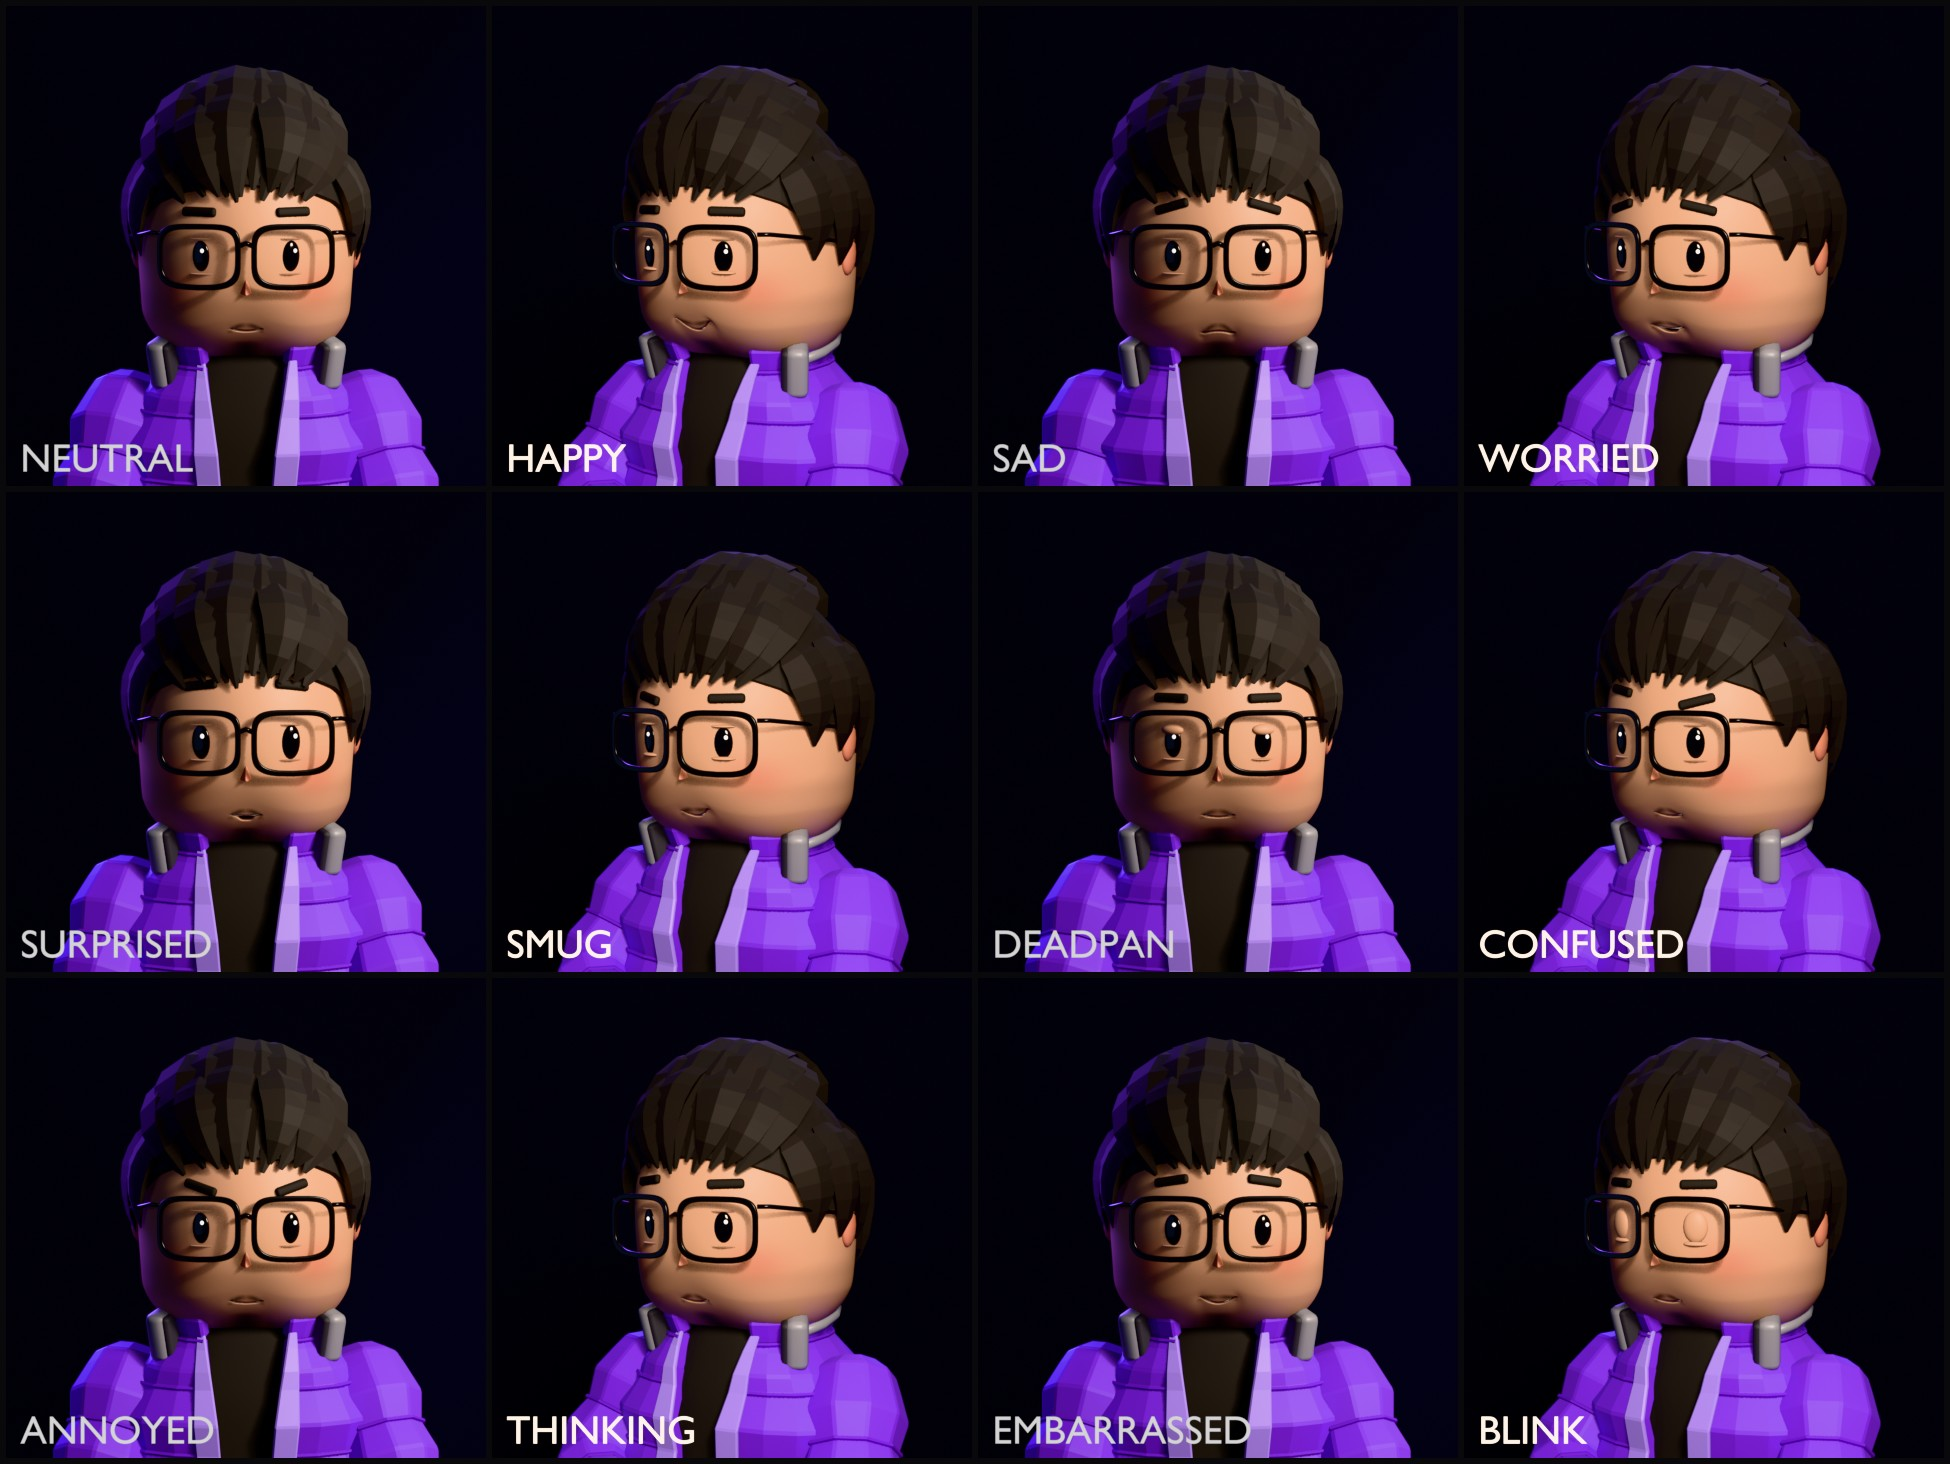
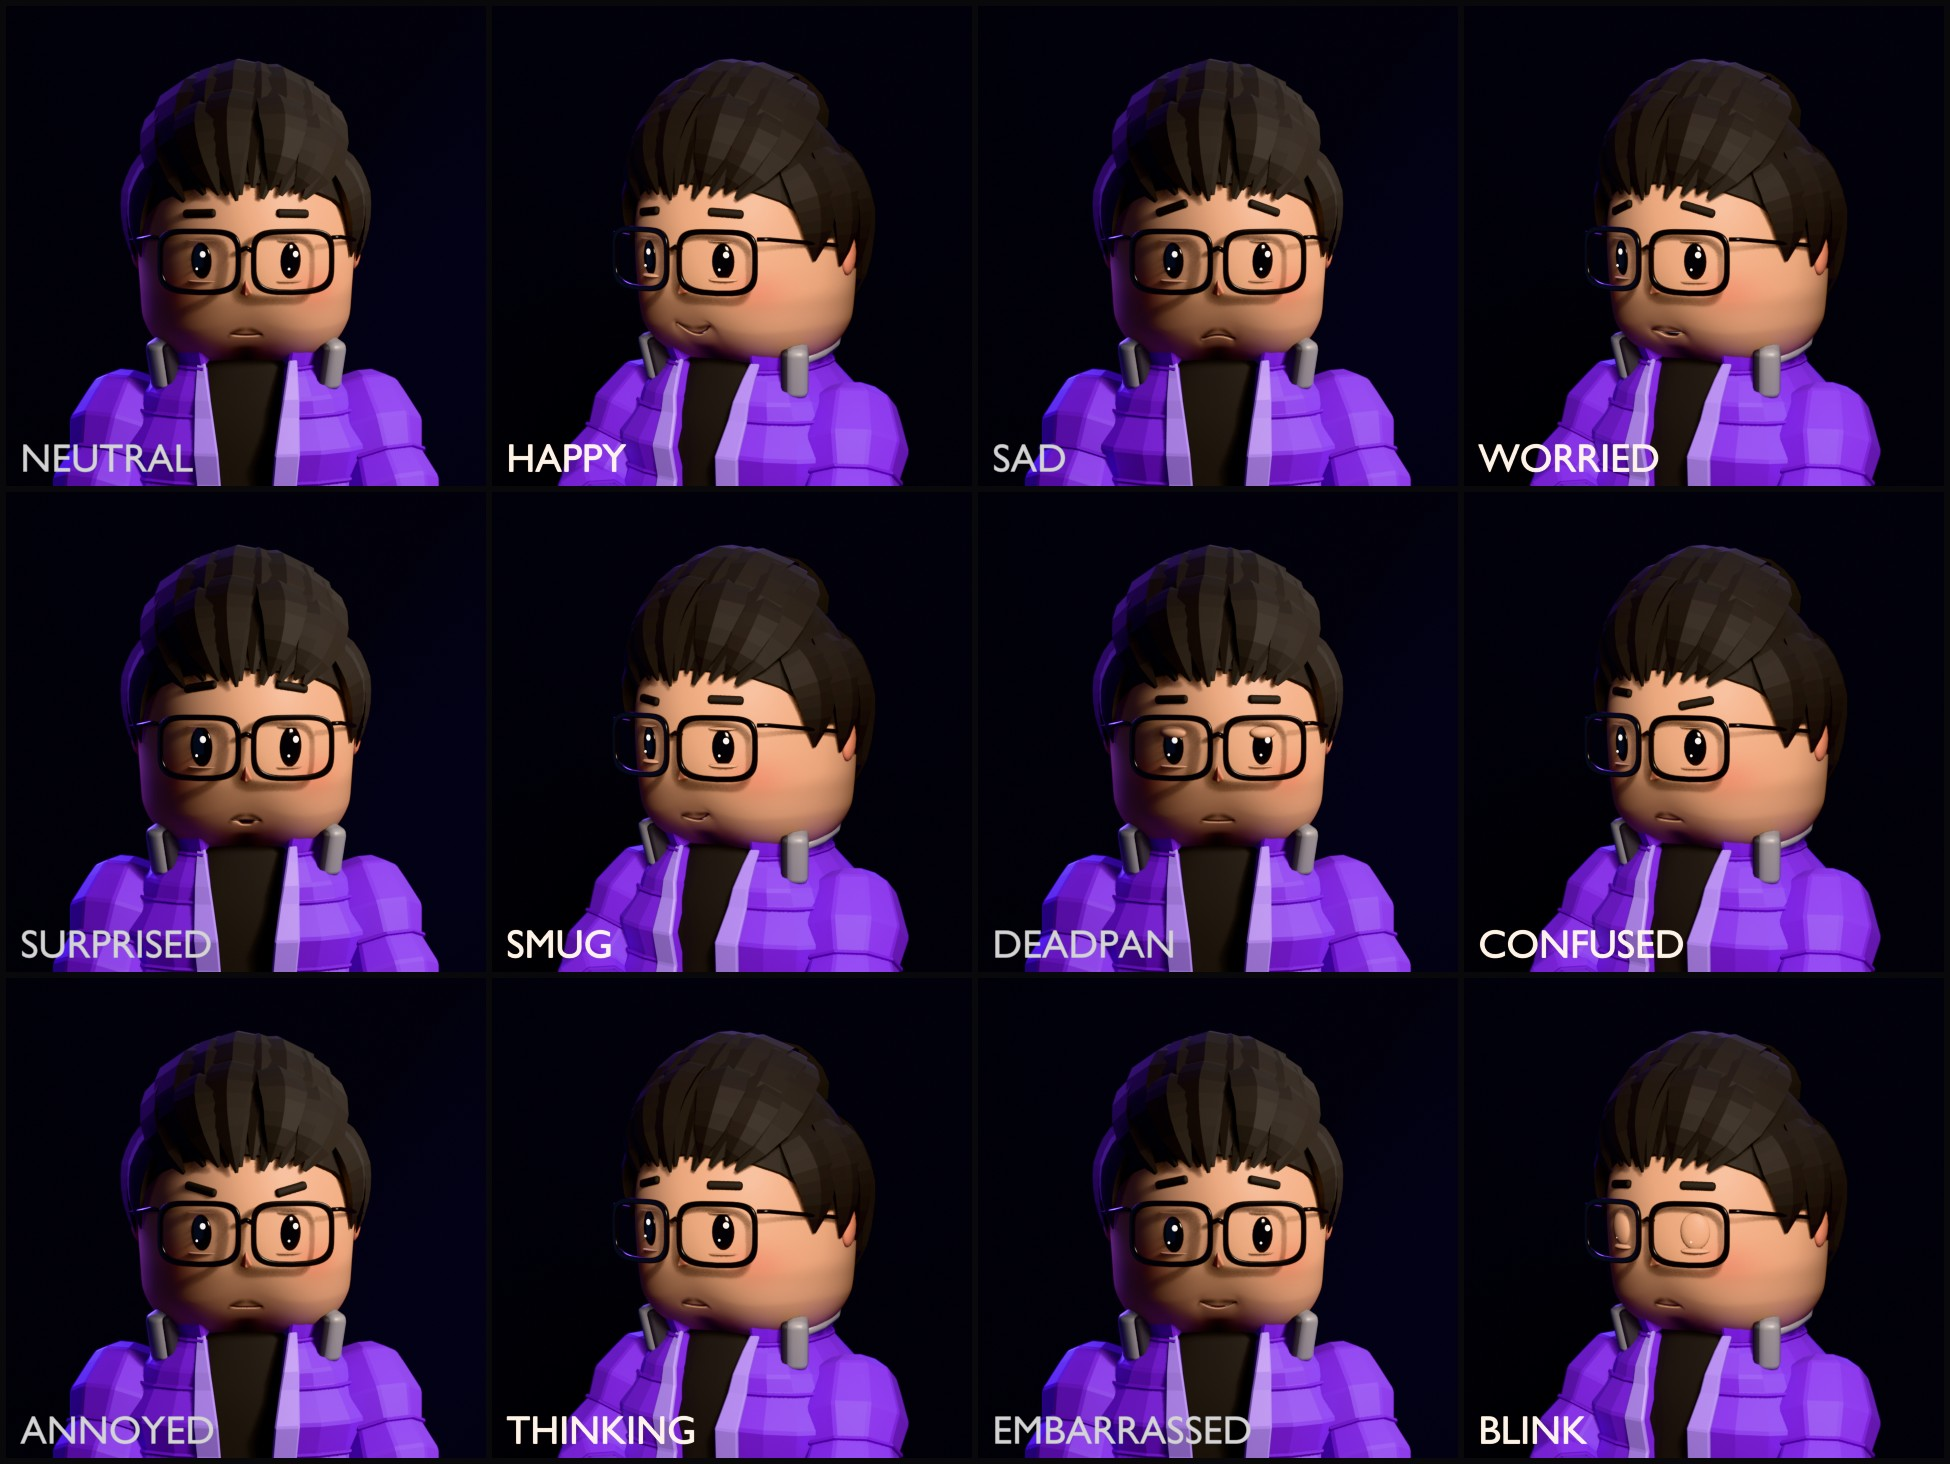
feat(shots-av): innocent-yet-serious face pass and two soft hair designs
Bigger glossy eyes with two catchlights, earnest brows (inner ends a touch high), a
near-neutral resting mouth and a slightly taller face, so the hero reads relatable
and shows emotion clearly. New hair presets soft_fringe and curtain build smooth,
rounded locks that hang onto the forehead; p1/hair_options.jpg compares them with
fringe for the owner to pick. The line-up camera now fits the taller head.

diff --git a/blender/shotsav/hero.py b/blender/shotsav/hero.py
@@ -36,7 +36,7 @@ HERO = {
     "outfit": {"default": "puffer", "options": list(OUTFITS)},
     "outfit_color": {"default": BRAND["purple"],
                      "swatches": [BRAND[k] for k in ("purple", "purple_mid", "purple_soft", "lilac", "ink")]},
-    "hair": {"default": "fringe", "options": ["fringe", "swept", "curly_top", "buzz"]},  # fringe: the owner's hair
+    "hair": {"default": "fringe", "options": ["fringe", "soft_fringe", "curtain", "swept", "curly_top", "buzz"]},
     "hair_color": {"default": "#15110F"},
     "glasses": {"default": "bold", "options": ["bold", "round", "rect", "none"]},  # bold: his black acetate frames
     "headphones": {"default": "neck", "options": ["on", "neck", "none"]},
@@ -51,12 +51,13 @@ DEFAULTS = {k: v["default"] for k, v in HERO.items()}
 
 # --- proportions (metres, seated; the desk top is at 0.74) ---------------------------------------------------
 HC_Z = 1.20  # head centre; the eyes sit 0.02 below it, at 1.18
-RX, RY, RZT, RZB = 0.152, 0.165, 0.182, 0.172  # head about 0.31 wide, 0.36 tall: an oval, taller than wide
+RX, RY, RZT, RZB = 0.152, 0.165, 0.190, 0.180  # head about 0.31 wide, 0.37 tall: an oval, taller than wide
 JAW, TAPER, CHIN = 0.0, 0.16, 0.80  # straight cheeks into defined jaw corners and a flat chin: oval-squarish (the owner's)
 SQUARE = 3.4  # superellipse power of the lower face's outline (2 = round)
-SMILE_REST = 0.2  # his resting face is a soft closed smile
-EYE_X, EYE_Z, EYE_R = 0.0575, -0.02, (0.012, 0.0052, 0.020)  # black ovals 0.024 x 0.040, 0.115 apart
-BROW_Z = 0.036  # just above the frame top (0.022), as in his photo, so the brows still act
+SMILE_REST = 0.10  # calm and serious at rest; the smile is saved for when he means it
+EYE_X, EYE_Z, EYE_R = 0.0570, -0.026, (0.0145, 0.0058, 0.0235)  # big glossy ovals 0.029 x 0.047: innocent,
+# readable at phone size; set a little low so the face keeps an open forehead
+BROW_Z = 0.034  # just above the frame top, as in his photo, so the brows still act
 NECK_Z = 1.035
 BODY_AT = (0.0, 0.03, 0.62)
 SHOULDER = (0.165, 0.0, 0.955)  # shoulders 0.46 wide over the sleeves
@@ -125,6 +126,45 @@ _BACK_CLOSE = [(0, 0.66, 0.004), (0, 0.86, 0.008), (0, 0.985, 0.007), (180, 0.93
 HAIR = {
     # The owner's hair: thick, black and textured, a heavy choppy fringe falling to the brows, volume on top, full
     # sides over the tops of the ears. Clumps run from the crown forward; tips land just above the brow line.
+    # A soft fringe swept gently to his left: big rounded locks, smooth-shaded, tips resting above the brows.
+    "soft_fringe": {"cap": 0.006, "band": 0.036, "thick": 0.40, "smooth": True, "ease": 0.55,
+                    "hairline": [(0, 26), (30, 23), (52, 15), (68, 4), (79, -3), (88, 10), (100, 10), (112, -14),
+                                 (180, -27)], "clumps": [
+        (-34, -16, 0.30, -0.955, (0.010, 0.016, 0.008), 0.060),
+        (-14, 8, 0.32, -0.968, (0.010, 0.017, 0.007), 0.064),
+        (4, 28, 0.30, -0.962, (0.010, 0.017, 0.007), 0.062),
+        (20, 50, 0.24, -0.93, (0.010, 0.016, 0.009), 0.058),
+        (-50, -46, 0.20, -0.86, (0.010, 0.014, 0.009), 0.054),
+        (-22, 10, 0.72, 0.00, (0.010, 0.016, 0.012), 0.066),  # top
+        (24, 2, 0.72, 0.06, (0.010, 0.015, 0.012), 0.066),
+        (-56, -96, -0.45, -0.36, (0.006, 0.012, 0.004), 0.050),  # sides: soft and close
+        (-58, -100, -0.02, 0.04, (0.006, 0.012, 0.004), 0.052),
+        (56, 96, -0.45, -0.36, (0.006, 0.012, 0.004), 0.050),
+        (58, 100, -0.02, 0.04, (0.006, 0.012, 0.004), 0.052),
+        (-40, -126, 0.62, 0.70, (0.006, 0.014, 0.004), 0.052),  # back
+        (40, 126, 0.62, 0.70, (0.006, 0.014, 0.004), 0.052),
+        _BACK_CLOSE,
+    ]},
+    # Curtains: a soft middle part, two rounded curtains framing an open forehead.
+    "curtain": {"cap": 0.006, "band": 0.036, "thick": 0.40, "smooth": True, "ease": 0.55,
+                "hairline": [(0, 30), (30, 24), (52, 15), (68, 4), (79, -3), (88, 10), (100, 10), (112, -14),
+                             (180, -27)], "clumps": [
+        (4, 26, 0.32, -0.962, (0.010, 0.017, 0.007), 0.052),
+        (6, 50, 0.26, -0.945, (0.010, 0.017, 0.008), 0.056),
+        (8, 74, 0.16, -0.86, (0.010, 0.015, 0.009), 0.056),
+        (-4, -26, 0.32, -0.962, (0.010, 0.017, 0.007), 0.052),
+        (-6, -50, 0.26, -0.945, (0.010, 0.017, 0.008), 0.056),
+        (-8, -74, 0.16, -0.86, (0.010, 0.015, 0.009), 0.056),
+        (-12, -4, 0.76, -0.20, (0.010, 0.015, 0.011), 0.054),  # top, either side of the part
+        (12, 4, 0.76, -0.20, (0.010, 0.015, 0.011), 0.054),
+        (-56, -96, -0.45, -0.36, (0.006, 0.012, 0.004), 0.050),  # sides: soft and close
+        (-58, -100, -0.02, 0.04, (0.006, 0.012, 0.004), 0.052),
+        (56, 96, -0.45, -0.36, (0.006, 0.012, 0.004), 0.050),
+        (58, 100, -0.02, 0.04, (0.006, 0.012, 0.004), 0.052),
+        (-40, -126, 0.62, 0.70, (0.006, 0.014, 0.004), 0.052),  # back
+        (40, 126, 0.62, 0.70, (0.006, 0.014, 0.004), 0.052),
+        _BACK_CLOSE,
+    ]},
     "fringe": {"cap": 0.006, "band": 0.036, "thick": 0.34, "hairline": [(0, 22), (30, 20), (52, 14), (68, 4), (79, -3), (88, 10),
                                                          (100, 10), (112, -14), (180, -27)], "clumps": [
         (-6, -48, 0.22, -0.90, (0.010, 0.020, 0.010), 0.050),  # fringe: pieces of uneven width, tips turned apart
@@ -489,7 +529,8 @@ def build(**dials):
         piv = empty(f"Eye{tag}", ep, coll, hgeo)
         piv.rotation_euler = erot
         eye = ball(f"AV_Eye{tag}", EYE_R, coll, M["eye"], parent=piv, segs=24)
-        ball(f"AV_EyeGlint{tag}", (0.24, 0.42, 0.15), coll, M["glint"], (0.30, -0.86, 0.36), parent=eye, segs=12)
+        ball(f"AV_EyeGlint{tag}", (0.27, 0.42, 0.17), coll, M["glint"], (0.30, -0.86, 0.38), parent=eye, segs=12)
+        ball(f"AV_EyeGlint2{tag}", (0.11, 0.42, 0.07), coll, M["glint"], (-0.30, -0.88, -0.42), parent=eye, segs=10)
         ev = face({"w": f"eyeWide{sname}", "o": f"eyeLookOut{sname}", "i": f"eyeLookIn{sname}",
                    "u": f"eyeLookUp{sname}", "d": f"eyeLookDown{sname}"})
         drive(eye, "location", f"{sx}*0.006*(o-i)", ev, 0)
@@ -519,11 +560,11 @@ def build(**dials):
         bp, brot = on_face(sx * (EYE_X + 0.002), BROW_Z, 0.0005)
         bpiv = empty(f"Brow{tag}", bp, coll, hgeo)
         bpiv.rotation_euler = brot
-        brow = rbox(f"AV_Brow{tag}", (0.048, 0.009, 0.0125), coll, M["brow"], 0.004, parent=bpiv)
+        brow = rbox(f"AV_Brow{tag}", (0.046, 0.009, 0.0115), coll, M["brow"], 0.0045, parent=bpiv)
         bv = face({"u": "browInnerUp", "d": f"browDown{sname}", "o": f"browOuterUp{sname}"})
         drive(brow, "location", f"{-sx}*0.004*d", bv, 0)
         drive(brow, "location", "0.010*u+0.013*o-0.008*d", bv, 2)
-        drive(brow, "rotation_euler", f"{sx}*(-0.02+0.42*u-0.46*d-0.16*o)", bv, 1)  # straight at rest
+        drive(brow, "rotation_euler", f"{sx}*(0.035+0.42*u-0.46*d-0.16*o)", bv, 1)  # inner ends a touch high: earnest
         # ears
         ear = ball(f"AV_Ear{tag}", (0.011, 0.022, 0.030), coll, M["blush"], (sx * (RX - 0.002), 0.012, -0.022),
                    parent=hgeo, segs=16)
@@ -553,22 +594,28 @@ def build(**dials):
         for r in range(rows - 1):
             cap_f.append((i * rows + r, j * rows + r, j * rows + r + 1, i * rows + r + 1))
         cap_f.append((i * rows + rows - 1, j * rows + rows - 1, len(cap_v) - 1))
-    cap = mesh("AV_HairCap", cap_v, cap_f, coll, M["hair"], smooth=False, parent=hgeo)
+    soft = bool(preset.get("smooth"))  # soft presets: smooth, rounded locks instead of faceted clumps
+    cap = mesh("AV_HairCap", cap_v, cap_f, coll, M["hair"], smooth=soft, parent=hgeo)
     sol = cap.modifiers.new("Solid", "SOLIDIFY")
     sol.thickness, sol.offset = preset["cap"] + 0.004, -1.0
 
-    def clump(name, path, width, k=5):
+    def clump(name, path, width, k=8 if soft else 5):
         pts = [hpt(d, lift) for d, lift in path]
         rings = []
         for i, (d, _) in enumerate(path):
             s = i / (len(path) - 1)
-            w = width * float(np.interp(s, [0, 0.15, 0.45, 0.8, 1], [0.55, 0.9, 1.0, 0.62, 0.07]))
+            prof = [0.6, 0.95, 1.0, 0.92, 0.38] if soft else [0.55, 0.9, 1.0, 0.62, 0.07]  # soft locks: rounded tips
+            w = width * float(np.interp(s, [0, 0.15, 0.45, 0.8, 1], prof))
             th = preset.get("thick", 0.44) * w  # flatter clumps keep a short cut close to the head
             _, sd, up = geo.frame(pts, i, d)
             c = pts[i] + up * th * 0.3
             rings.append([c + sd * (w * math.cos(2 * math.pi * j / k + math.pi / 2))
                           + up * (th * math.sin(2 * math.pi * j / k + math.pi / 2)) for j in range(k)])
-        return loft(name, rings, coll, M["hair"], smooth=False, parent=hgeo)
+        o = loft(name, rings, coll, M["hair"], smooth=soft, parent=hgeo)
+        if soft:
+            sub = o.modifiers.new("Subd", "SUBSURF")
+            sub.levels = sub.render_levels = 1
+        return o
 
     for ci, spec in enumerate(preset.get("clumps", [])):
         if isinstance(spec, list):
@@ -576,8 +623,9 @@ def build(**dials):
         else:
             th0, th1, f0, f1, (l0, lm, l1), width = spec
             wob = (0.012 if D["hair"] == "fringe" else 0.004) * math.sin(ci * 12.9898)  # irregular, same every build
-            path = [(hdir(th0 + (th1 - th0) * s, f0 + (f1 - f0) * s + wob * math.sin(math.pi * s)),
-                     l0 + (l1 - l0) * s + lm * math.sin(math.pi * s) ** 0.8) for s in (i / 7 for i in range(8))]
+            ease = preset.get("ease", 1.0)  # < 1: the lock crosses the crown fast, then hangs down the forehead
+            path = [(hdir(th0 + (th1 - th0) * s, f0 + (f1 - f0) * s ** ease + wob * math.sin(math.pi * s)),
+                     l0 + (l1 - l0) * s + lm * math.sin(math.pi * s) ** 0.8) for s in (i / 9 for i in range(10))]
         clump(f"AV_Hair{ci:02d}", path, spec[5] if not isinstance(spec, list) else 0.036)
     for ci, (th, f) in enumerate(preset.get("curls", [])):
         r = 0.050 + 0.008 * math.sin(ci * 7.3)

diff --git a/tests/test_shots_av.py b/tests/test_shots_av.py
@@ -190,7 +190,7 @@ def test_hero_table_matches_the_schema_and_the_brand():
     assert tuple(hero["glasses"]["options"]) == schema.AV_GLASSES and hero["glasses"]["default"] == "bold"
     assert tuple(hero["beard"]["options"]) == schema.AV_BEARDS and hero["beard"]["default"] == "light"
     assert set(hero["headphones"]["options"]) == set(schema.AV_HEADPHONES) and hero["headphones"]["default"] == "neck"
-    assert tuple(hero["hair"]["options"]) == ("fringe", "swept", "curly_top", "buzz") and hero["hair"]["default"] == "fringe"
+    assert tuple(hero["hair"]["options"]) == schema.AV_HAIRS and hero["hair"]["default"] == "fringe"
     assert set(t["SKINS"]) == set(schema.AV_SKINS) and hero["skin"]["default"] == schema.AV_SKINS[0]
     assert tuple(hero["hair"]["options"]) == tuple(schema.AV_HAIRS)
     assert hero["stubble"]["default"] == 0.3 and hero["outfit"]["default"] == "puffer"

diff --git a/reelforge/schema.py b/reelforge/schema.py
@@ -28,7 +28,7 @@ AV_GLASSES = ("bold", "round", "rect", "none")  # bold: the owner's black acetat
 AV_HEADPHONES = ("on", "neck", "none")
 # Skin and hair are the viewer's pick in the editor (owner decision, gate P1); the first entry is the default.
 AV_SKINS = ("wheat", "porcelain", "light", "tan", "warm_brown", "brown", "deep")  # wheat: the owner's tone
-AV_HAIRS = ("fringe", "swept", "curly_top", "buzz")  # fringe: the owner's hair
+AV_HAIRS = ("fringe", "soft_fringe", "curtain", "swept", "curly_top", "buzz")  # fringe: the owner's hair
 AV_BEARDS = ("light", "stubble", "none")  # light: thin moustache and chin beard
 AV_GRAMMARS = ("signature", "reference")  # signature (default) = the reference grammar plus our upgrades
 AV_ACTIONS = ("hop", "tilt", "dry", "happy", "think", "shrink", "nod", "lookaway")  # buddy reaction clips

diff --git a/blender/shotsav/sheets.py b/blender/shotsav/sheets.py
@@ -259,7 +259,13 @@ def sheet_outfits(out):
     save(grid(tiles_of(out, "outfit", specs), 3), out / "outfits_poses.jpg")
 
 
-SHEETS = {"turnaround": sheet_turnaround, "expressions": sheet_expressions, "mouth": sheet_mouth,
+def sheet_hair(out):
+    specs = [{"dials": {"hair": h}, "shot": "head", "view": v, "size": (600, 640), "label": f"HAIR: {h.upper()}"}
+             for v in ("front", "34r") for h in ("fringe", "soft_fringe", "curtain")]
+    save(grid(tiles_of(out, "hair", specs), 3), out / "hair_options.jpg")
+
+
+SHEETS = {"hair": sheet_hair, "turnaround": sheet_turnaround, "expressions": sheet_expressions, "mouth": sheet_mouth,
           "purple": sheet_purple, "options": sheet_options, "outfits": sheet_outfits}
 
 if __name__ == "__main__":

diff --git a/blender/shotsav/buddy_sheets.py b/blender/shotsav/buddy_sheets.py
@@ -147,7 +147,7 @@ def sheet_lineup(out):
     focus = bpy.data.objects.new("Focus", None)
     sc.collection.objects.link(focus)
     focus.location = (0, -0.50, 0.82)
-    cam = camera(sc, (0.0, -2.35, 1.05), (0, -0.30, 0.97), 50, 5.6, focus)
+    cam = camera(sc, (0.0, -2.45, 1.10), (0, -0.30, 1.01), 50, 5.6, focus)  # the whole head fits
     label(sc, cam, "CLAUDE  /  CHATGPT  /  FIGMA  /  NOVA   (hero for scale)")
     save(render_to(sc, out / "_tiles" / "lineup.png"), out / "lineup.jpg")
 

diff --git a/docs/production/shots-av/PROGRESS.md b/docs/production/shots-av/PROGRESS.md
@@ -23,6 +23,7 @@ Update this file after every task. A new session reads it and `git log`, and nev
 | 2 | Evidence (`blender/shotsav/buddy_sheets.py`) | done | P2 commit | `p2/lineup.jpg`, `p2/clips_claude.jpg`, `p2/eyes_signature.jpg`, `p2/loop_<id>.mp4` (6 s each), `p2/loops_grid.mp4` |
 | 1 | Likeness pass (owner's photos): hair, bold glasses, wheat skin, beard, oval-squarish face, directional key | done | 319b54e | `p1/likeness.jpg` (front, three-quarter, side) and every P1 sheet re-rendered |
 | 2 | Robot redesign of the four buddies (display faces, waveform mouths) | done | 319b54e | `p2/lineup.jpg`, `p2/clips_claude.jpg`, `p2/eyes_signature.jpg`, `p2/loop_*.mp4`, `p2/loops_grid.mp4` re-rendered |
+| 1 | Innocence pass + two soft hair designs | done | innocence commit | `p1/hair_options.jpg`, `p1/expressions.jpg`. **Waiting on owner: default hair (fringe, soft_fringe or curtain)** |
 | 2 | **Gate P2: owner decides how literal the brand shapes may be** | **waiting on owner** | — | Also: may real logos appear (on the monitor, P3)? Known gap: the taller head runs off the top of `p2/lineup.jpg` |
 | 3-8 | Rooms, camera and director, captions and sound, editor page, benchmark, docs | not started | — | |
 
@@ -41,6 +42,7 @@ Update this file after every task. A new session reads it and `git log`, and nev
 ## Decisions
 | Date | Decision | Why |
 |---|---|---|
+| 2026-11-12 | **Innocent yet serious**: bigger glossy eyes (0.029 by 0.047) with two catchlights, set a little lower for an open forehead; brows rest with the inner ends a touch high (earnest, not stern); the resting smile cut to 0.10 (calm, serious); face height up to 0.37. Two new soft hair designs, `soft_fringe` and `curtain` (smooth rounded locks that hang onto the forehead), beside `fringe`; `p1/hair_options.jpg` compares them. **Owner to pick the default hair** | Owner: "something users can relate with and share; innocent yet serious; shows emotions and innocence; try some other hair design; increase the height of the face a little" |
 | 2026-11-12 | **Face is oval and squarish**: head 0.31 wide by 0.36 tall (was 0.36 by 0.35); the lower face's outline is a superellipse (power 3.4) so the cheeks run straight into defined jaw corners; the chin is flatter (`CHIN` 0.80) and the jaw turns in only near the bottom | Owner: "the animated face is very rounded, keep it oval squarish" (second photo) |
 | 2026-11-12 | **The hero is the owner's likeness** (from his photo): new defaults `hair: fringe` (thick black textured hair, a choppy layered fringe to the brows, sides close over the ears), `glasses: bold` (black acetate rectangles with real depth), `skin: wheat` (`#D6A688`), `beard: light` (thin moustache + chin beard), an oval face narrowing to a defined chin, straight strong brows just above the frames, a soft closed smile at rest. The earlier looks stay selectable (`swept`, `round`, `warm_brown`, `stubble`...) | Owner: "make him like this guy, it's me... do it very properly". Supersedes the round-glasses default |
 | 2026-11-12 | Hair volume halved (about 3.5 cm above the scalp at head scale) | Owner: "hair height is too long" |
